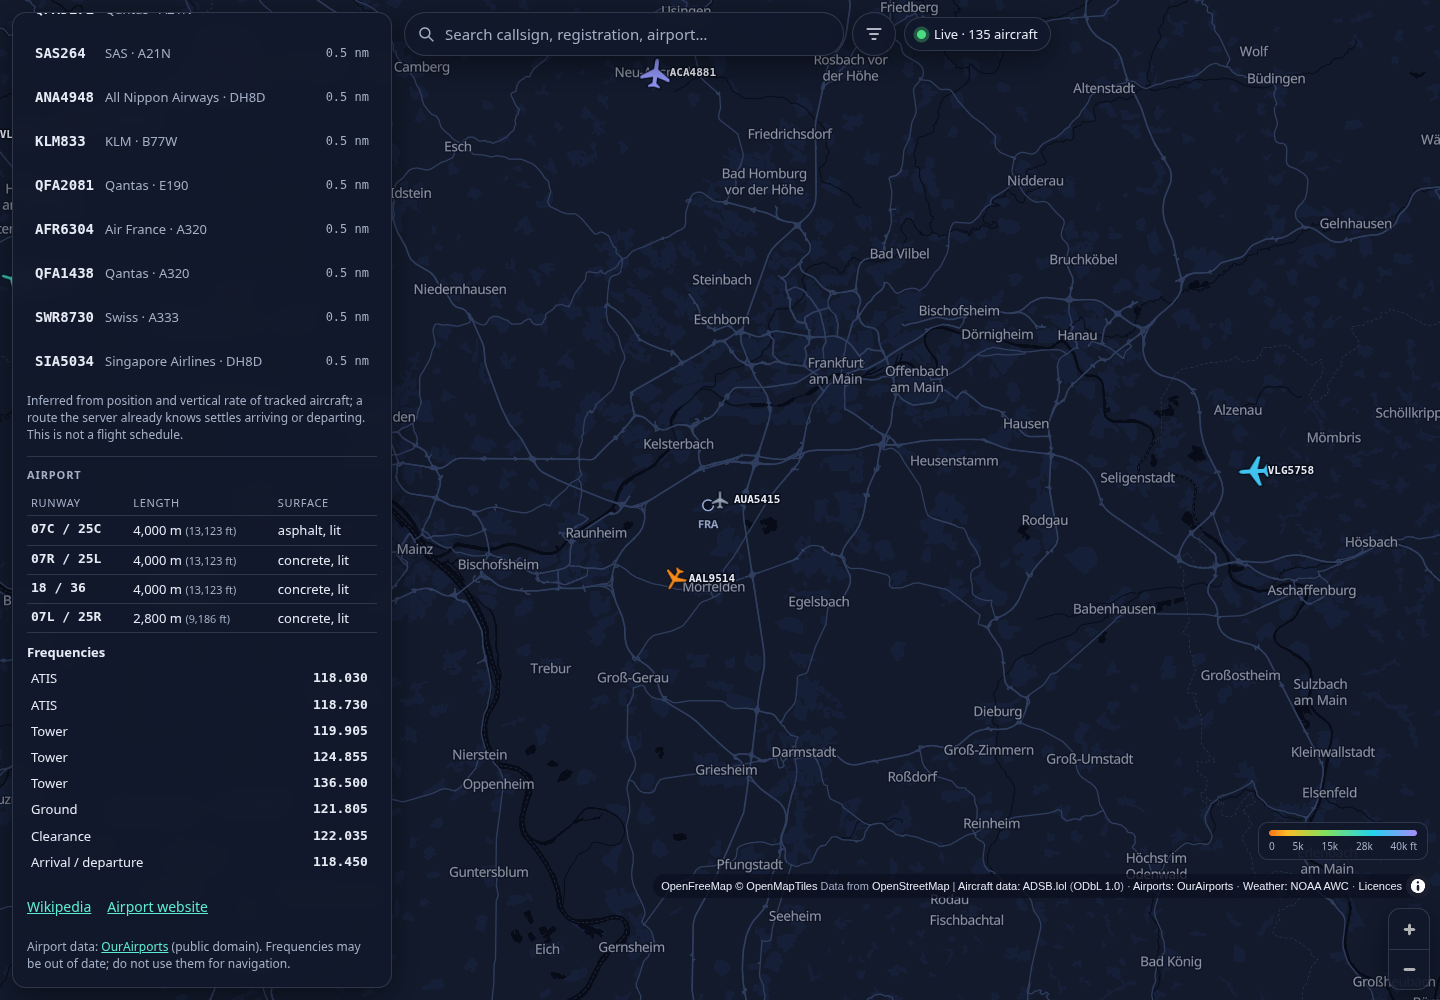
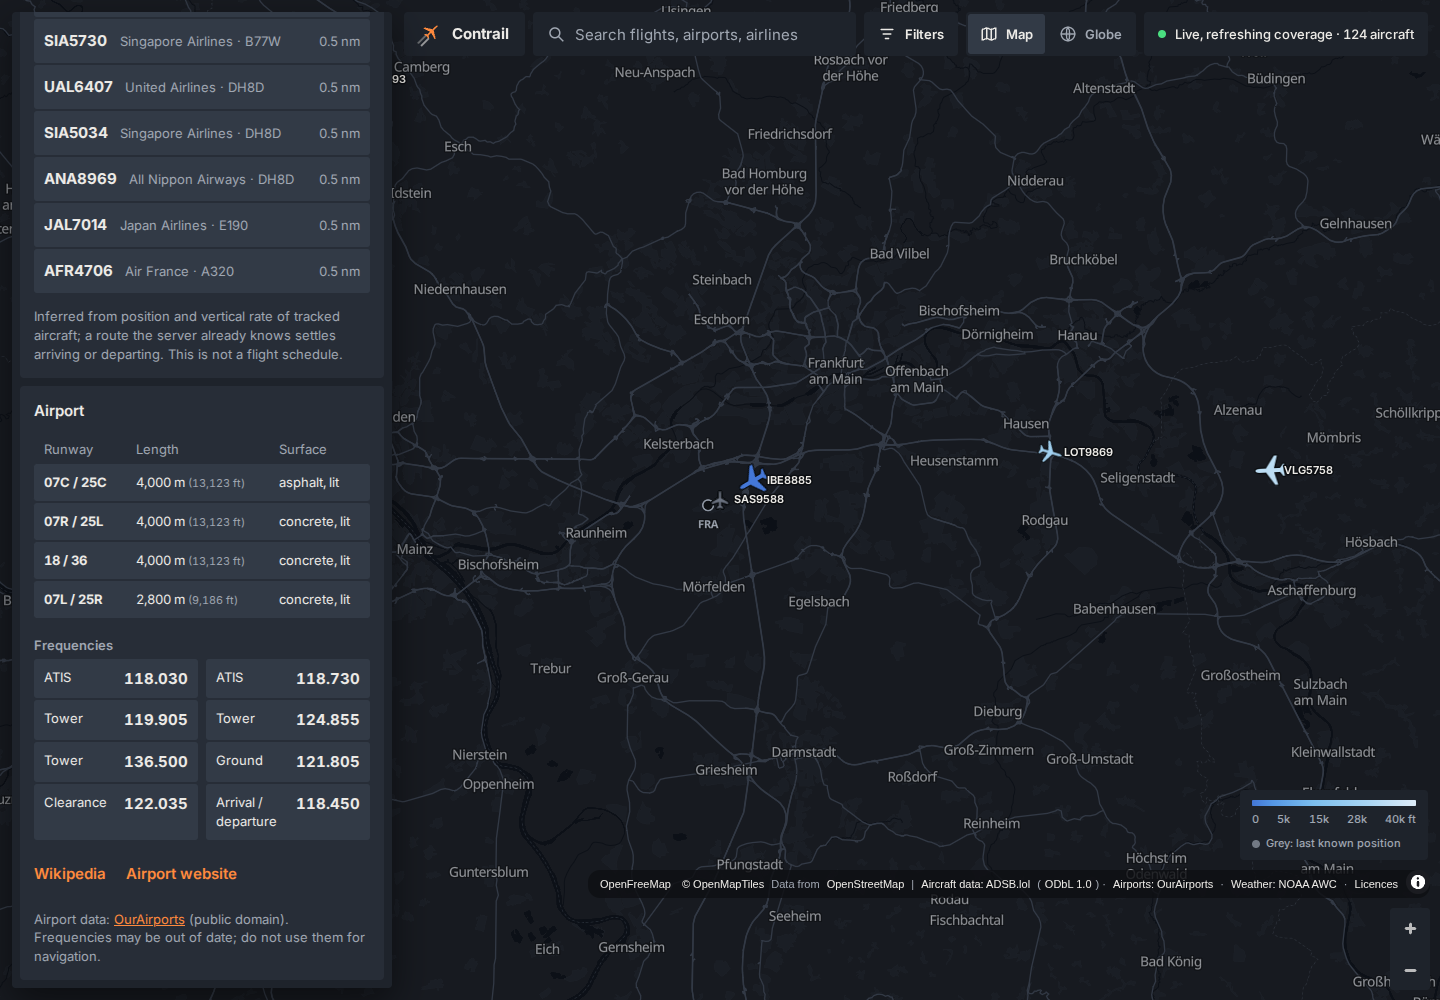
README and screenshots: new look, globe mode, grey ghosts

diff --git a/README.md b/README.md
@@ -29,6 +29,7 @@
 ## Features
 
 - **Smooth live map.** Every aircraft is extrapolated each frame from its track and ground speed and eased towards each new fix, so nothing jumps and nothing fades with age. How old the data is shows in a small status chip, never by hiding aircraft. About 60 fps with 15,000 aircraft on an integrated GPU.
+- **Globe mode.** One switch turns the map into a globe (MapLibre's globe projection). Aircraft are projected by the app's own code, which agrees with MapLibre to the pixel, hidden behind the horizon and faded near the edge, so it costs the same per frame as the flat map. Routes are great circles and the globe flattens into the map as you zoom in. The choice is part of the URL (`g=1`).
 - **Flight panel.** Photo, callsign, airline, type, registration, route (from and to), live altitude, speed, vertical rate, squawk, altitude / speed / vertical-rate history, the whole track coloured by altitude, the rest of the route as a dashed line, distance flown and remaining, and an arrival estimate (clearly labelled as an estimate).
 - **Recent tracks for every aircraft.** Turn on 30 or 60 minute tracks and each aircraft in view gets a line behind it, coloured by its altitude. They are drawn from the server's own record of what it has seen, so they cost no extra request to the ADS-B source; they start when the server first saw the aircraft, not at take-off, and appear from zoom 6 (below that there are too many aircraft to read).
 - **Search** by callsign, registration, ICAO24, airport or airline, with a keyboard-friendly dropdown.
@@ -55,6 +56,10 @@ Self-hosted on a home server: [contrail.maciejzielinski.dev](https://contrail.ma
 <p align="center"><sub>Aircraft photo: © Howard Wang, via <a href="https://www.planespotters.net">Planespotters.net</a>.</sub></p>
 
 Demo mode:
+
+<p align="center">
+  <img src="docs/screenshots/globe.png" alt="Globe mode: Europe and Africa on a dark sphere with aircraft" width="49%">
+</p>
 
 <p align="center">
   <img src="docs/screenshots/aircraft-panel.png" alt="Flight panel with photo, route, live values and charts" width="49%">
@@ -152,7 +157,7 @@ Read this before you rely on the map. The numbers below were measured while buil
 - The public ADSB.lol API answers a query for at most a 250 nautical mile circle, so the server works with 5 degree tiles and fetches **one request per tile**. From the machine this was developed on, **27 to 43 percent of requests were answered with HTTP 429** and the sustainable rate was roughly 0.15 to 0.2 requests per second.
 - Consequence: a **cold start of a large region is slow**. In a real 15 minute run only 67 of the 79 Europe tiles had loaded, and tile data was 4 to 5 minutes old on median. Zoomed in on a city or country the picture is fresh within seconds; zoomed out over a continent it is a mosaic of areas of different age, dead-reckoned in between. The status chip says how old the oldest area is. It does not pretend otherwise.
 - **Coverage is a plan, not a promise.** After the tiles somebody is looking at (always first, refreshed about every 10 s anywhere in the world), spare budget goes to a short list shared by weight: Europe 60 percent (target 5 minutes per tile), US East and West 30 percent (15 minutes), and eleven busy hubs (Dubai, Singapore, Hong Kong, Shanghai, Beijing, Tokyo, Delhi, Mumbai, Sao Paulo, Johannesburg, Sydney) 10 percent (30 minutes): under 200 of the 751 tiles that contain an airport. Everything else is fetched only on demand. Tiles that keep coming back empty (ocean, desert, polar) are looked at 20 to 60 times less often. At about 0.15 requests per second even this is more than one IP can keep fresh: the targets are an order and a rate, not a promise, and `/api/v1/status` reports the real median and oldest age per class.
-- **Old data is dimmed, then hidden.** Aircraft whose area was last refreshed more than 10 minutes ago are drawn faded, and beyond 15 minutes they disappear (server and client agree on the cap, and the server frees the memory). The flight panel shows both the age of the aircraft's last position and of its area.
+- **Old data is dimmed, then hidden.** Aircraft whose area was last refreshed more than 10 minutes ago are drawn as grey ghosts at their last known position, and beyond 15 minutes they disappear (server and client agree on the cap, and the server frees the memory). The flight panel shows both the age of the aircraft's last position and of its area.
 - The server is a polite client: one shared fetcher, a global budget (`UPSTREAM_BUDGET_RPS`, default 0.2), automatic back-off on 429, tiles that are usually empty (ocean, polar) are refreshed far less often, and the background plan is what it keeps warm.
 - **OpenSky Network is not used.** Its terms require a written licence for any operational use of its REST API in a live service. **airplanes.live is not used** either: its terms allow personal, non-commercial use only and forbid re-publishing the data. adsbdb.com is not used because its route data may not be copied into other databases.
 - The flight track is **our own record** of what the server has seen since it first looked at the aircraft. There is no permitted source for a complete trace from take-off, so a flight first seen mid-air gets a dashed, labelled "estimated path" from its origin airport.
